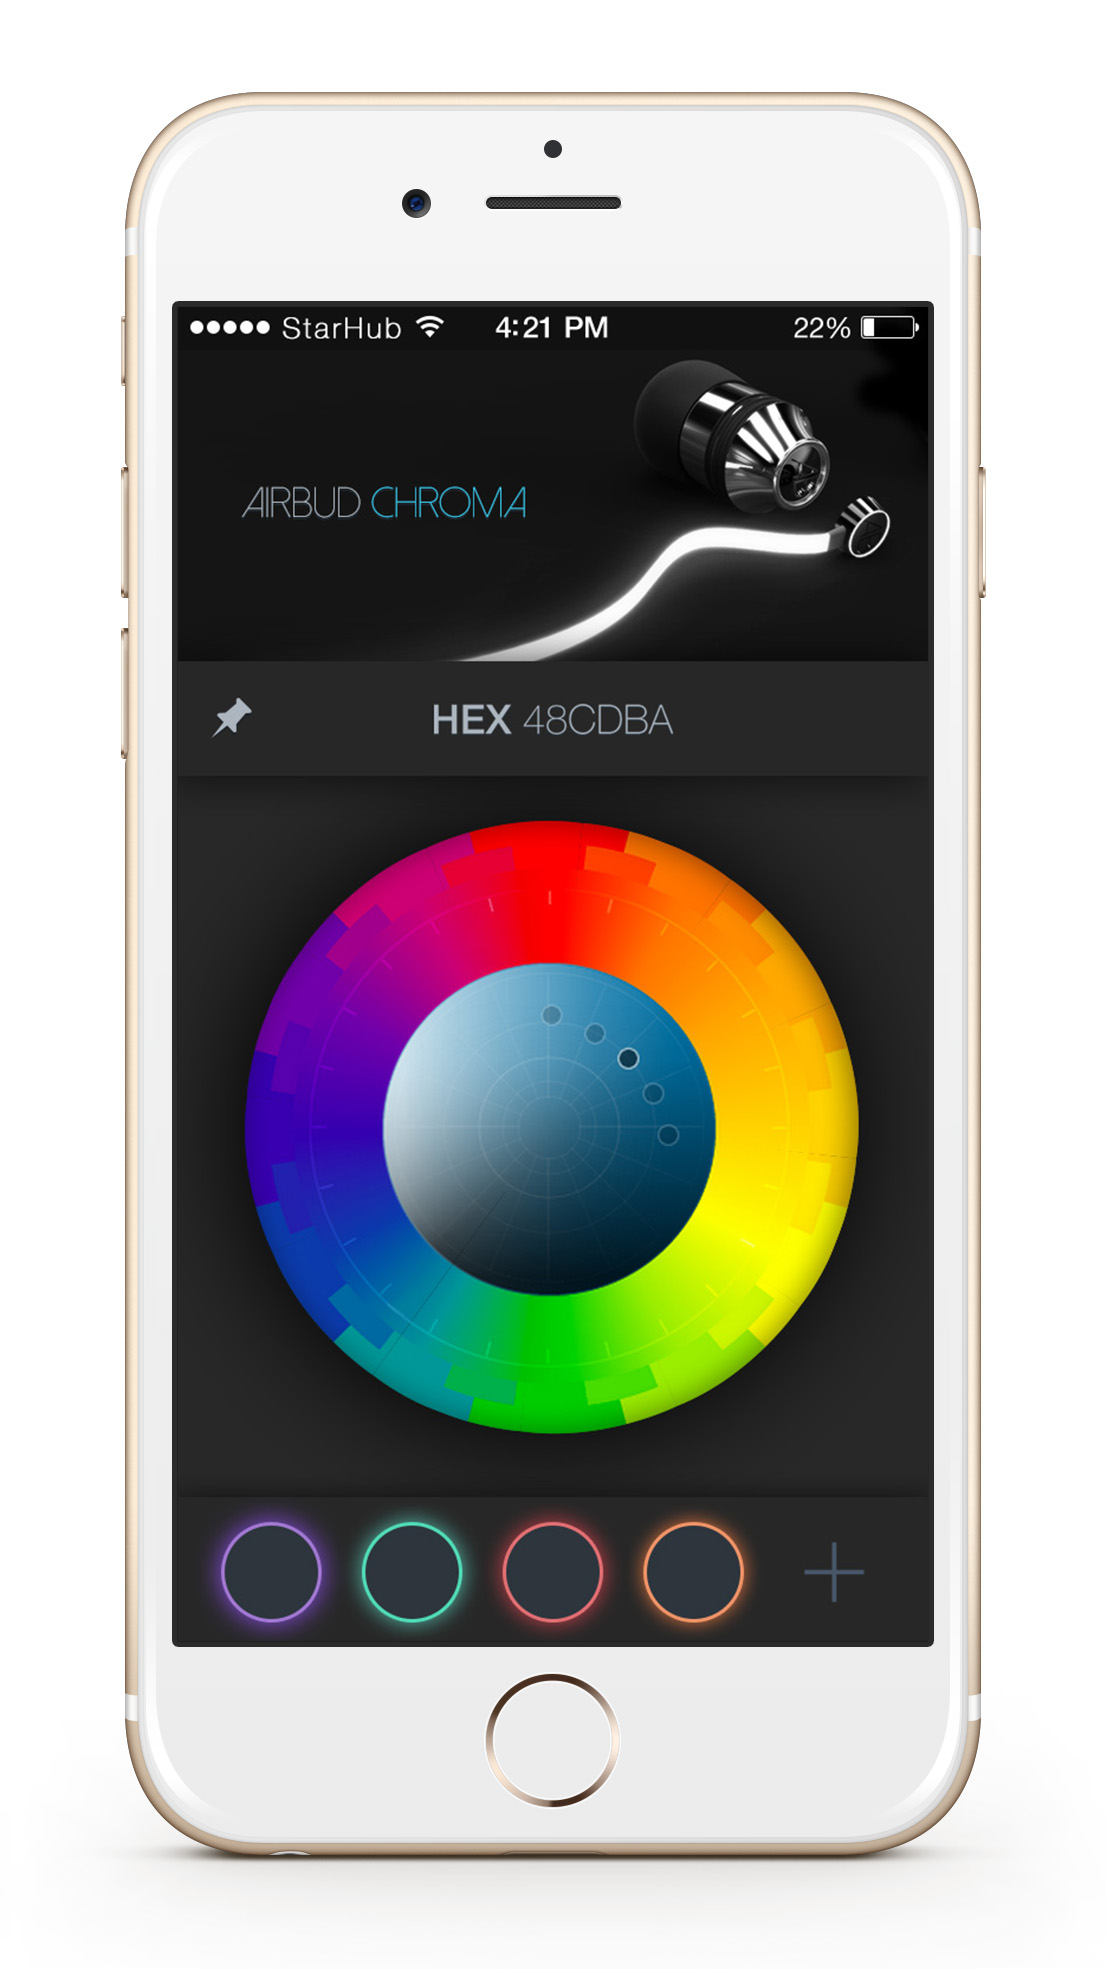
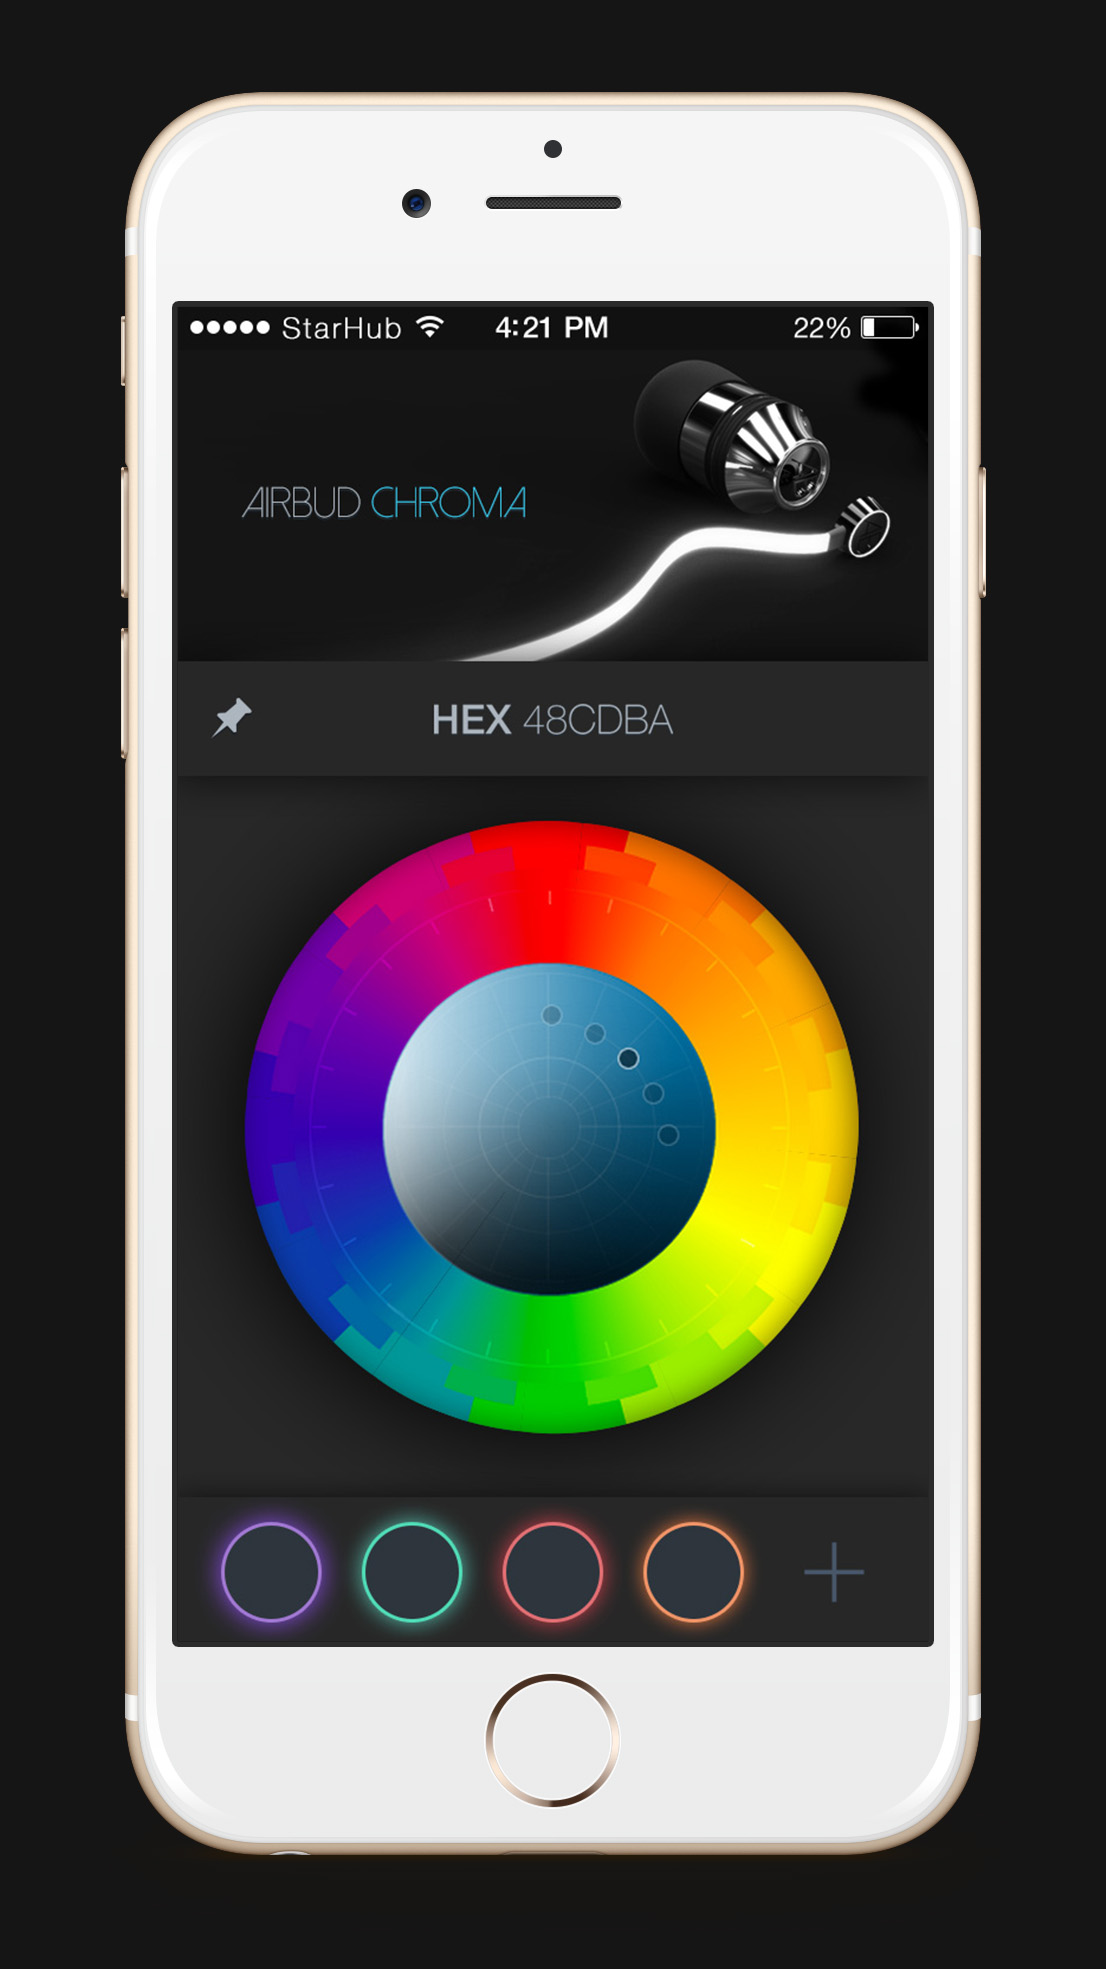
made color picker app page nicer

diff --git a/scripts/app.js b/scripts/app.js
@@ -19,9 +19,9 @@
         this.rgba = rgba
         this.toString = function(){ return "rgba("+Array.prototype.join.call(this.rgba,',')+")" };
     }
-    $.Event.prototype.rgba=function(){console.log($('#app-picker').offset().left);console.log(" "+ $('#app-picker').offset().top);
-        var x =  parseInt($('#app-picker').offset().left),
-            y =  parseInt($('#app-picker').offset().top),
+    $.Event.prototype.rgba=function(){
+        var x =  parseInt($('#app-picker').offset().left - $(this.target).offset().left),
+            y =  parseInt($('#app-picker').offset().top - $(this.target).offset().top),
             nodeName = this.target.nodeName;
         /*var x =  $('#app-picker').offset().left || ($('#app-picker').pageX - $(this.target).offset().left), //was this.offsetX instead of $('#app-picker').offset().left
             y =  $('#app-picker').offset().top || ($('#app-picker').pageY - $(this.target).offset().top), //was this.offsetY*/
@@ -71,8 +71,8 @@ $(function() {
         });
         if(currentHue!=newHue)
             setTimeout(animateHue, 5);
-        console.log("Current Hue:"+currentHue);
-        console.log("New Hue:"+newHue);
+        /*console.log("Current Hue:"+currentHue);
+        console.log("New Hue:"+newHue);*/
     }
 });
 

diff --git a/app.html b/app.html
@@ -9,13 +9,13 @@
     <script type="text/javascript" src="http://paletton.com/widget/js/widget.js"></script>
     <script type="text/javascript" src="scripts/app.js"></script>
 </head>
-<body>
+<body style="background-color:#151515;">
 <div>
+    <img src="images/V4.2.jpg" id="app-img"/>
     <div id="app-container">
         <div id="app-picker"></div>
         <img src="images/app.jpg" id="app"/>
     </div>
-    <img src="images/V4.2.jpg" id="app-img"/>
 </div>
 </body>
 </html>
